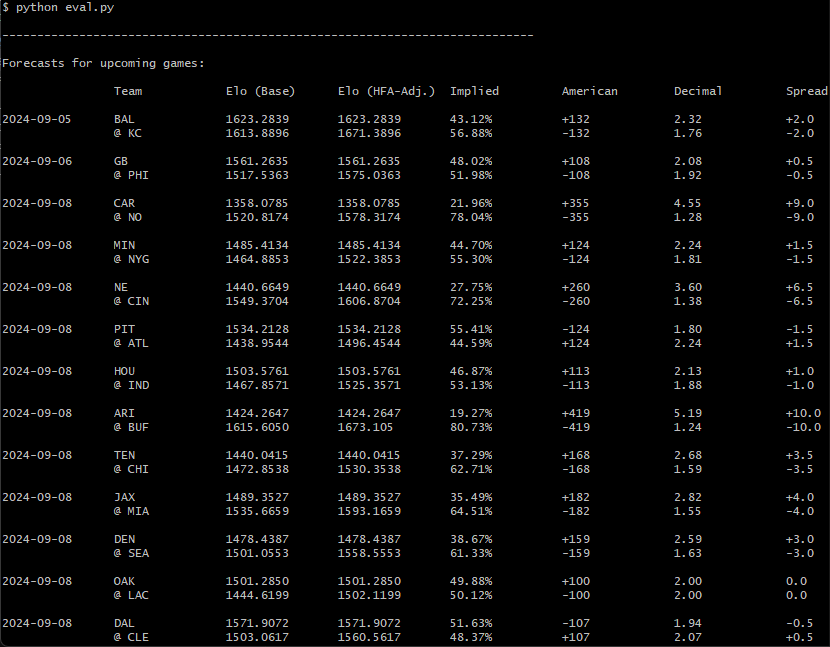
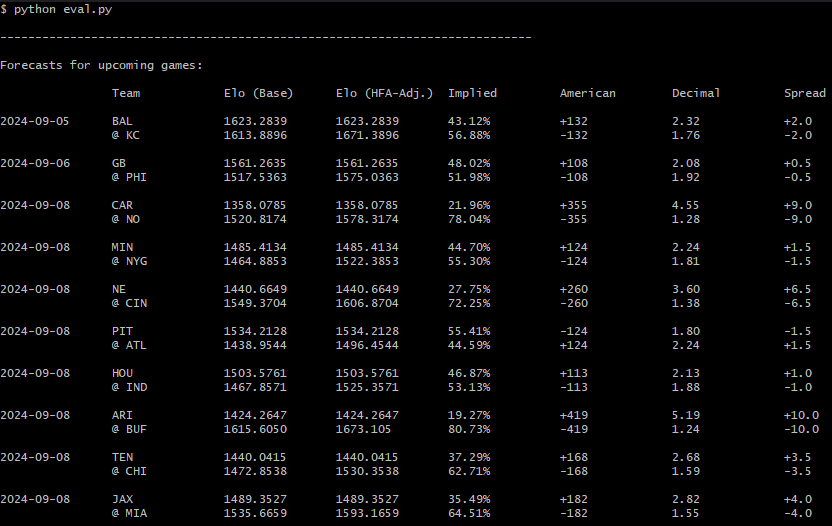
make hfa non-neutral in print method

diff --git a/util.py b/util.py
@@ -30,6 +30,7 @@ class Util:
         print("\t\tTeam\t\tElo (Base)\tElo (HFA-Adj.)\tImplied\t\tAmerican\tDecimal\t\tSpread\n")
 
         for key, game in game_odds.items():
+            actual_hfa = HFA if game['neutral'] == 0 else 0
             # follows the convention to print away team before home team that seems prominent
             print(f"{game['date']}\t{game['team2']}\t\t{game['elo2']}\t{game['elo2']}\t{game['percentage2']}\t\t{game['american2']}\t\t{game['decimal2']:.2f}\t\t{game['spread2']}")
-            print(f"\t\t@ {game['team1']}\t\t{game['elo1']}\t{float(game['elo1']) + HFA}\t{game['percentage1']}\t\t{game['american1']}\t\t{game['decimal1']:.2f}\t\t{game['spread1']}\n")
+            print(f"\t\t@ {game['team1']}\t\t{game['elo1']}\t{float(game['elo1']) + actual_hfa}\t{game['percentage1']}\t\t{game['american1']}\t\t{game['decimal1']:.2f}\t\t{game['spread1']}\n")

diff --git a/forecast.py b/forecast.py
@@ -111,6 +111,7 @@ class Forecast:
                     spread2 = f"{-spread:+.1f}"
 
                 game_odds[f"{game['team1']}-{game['team2']}"] = {
+                    'neutral': game['neutral'],
                     'date': game['date'],
                     'team1': game['team1'],
                     'percentage1': f"{percentage1:.2%}",
